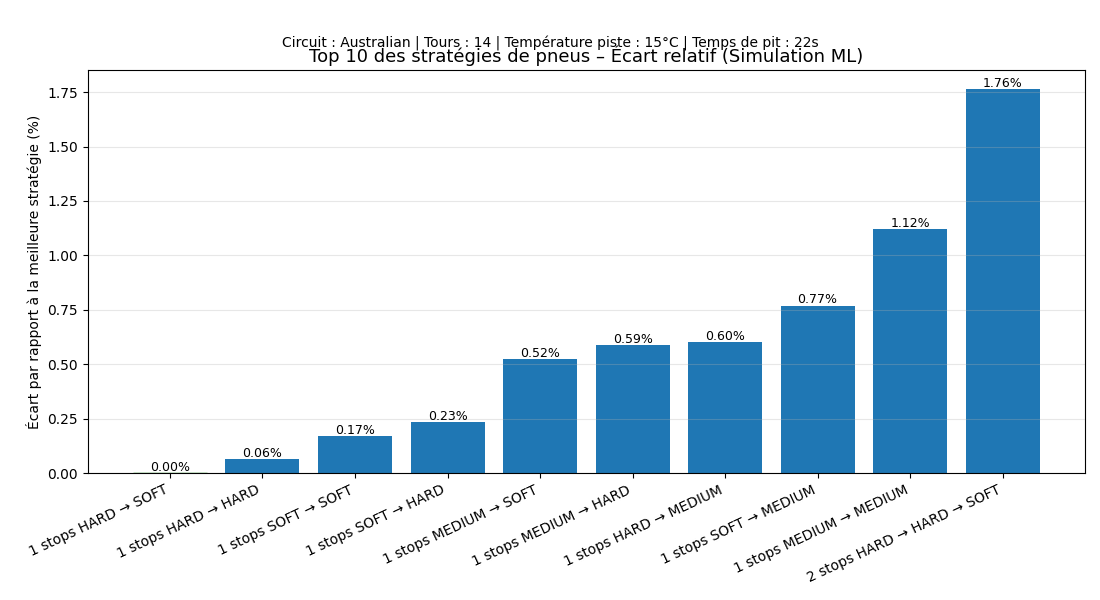
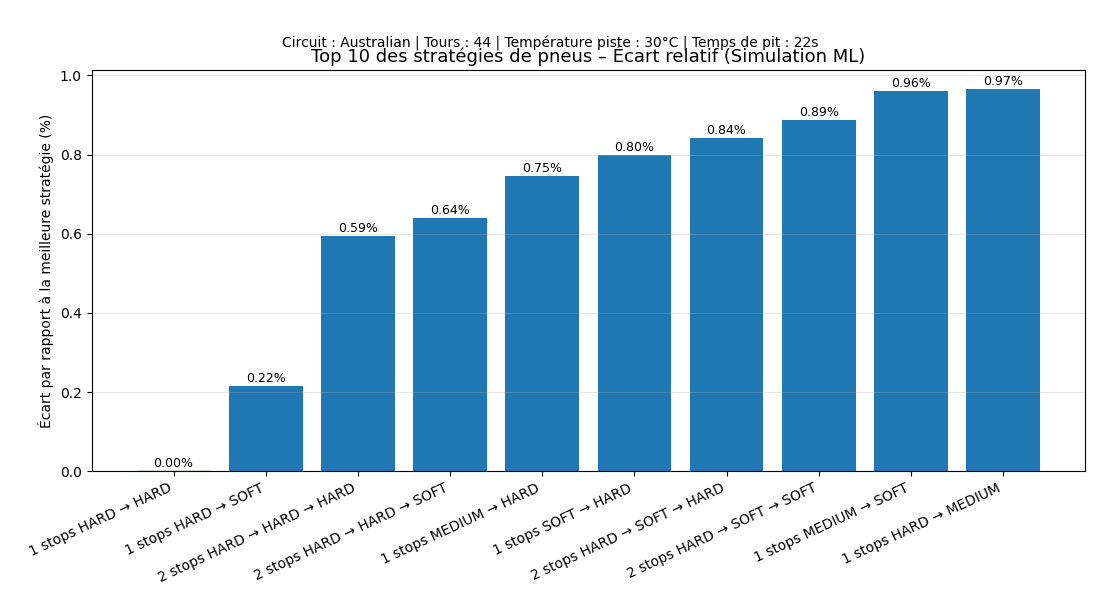
m'en vais me coucher mais c'est cool bien avancé

diff --git a/src/visualization.py b/src/visualization.py
@@ -463,7 +463,7 @@ COMPOUND_COLORS = {
     "HARD": "black",
 }
 
-def plot_raw_vs_model_degradation(
+def plot_degradation_panels(
     df,
     model,
     feature_template,
@@ -471,65 +471,103 @@ def plot_raw_vs_model_degradation(
     le_circuit,
     circuit_name,
     track_temp=35,
-    lap_number=25,
-    save_path="outputs/raw_vs_model_degradation.png",
+    lap_number=14,
+    max_tyre_life=None,
+    save_path="outputs/degradation_panels.png",
 ):
     """
-    Affiche les données brutes (points) + la courbe du modèle par-dessus.
-    - df : dataframe complet (lap data)
-    - model : modèle ML (RandomForest idéalement)
-    - feature_template : X_train.mean() (Series)
-    - feature_names : X_train.columns
-    - le_circuit : LabelEncoder des circuits
-    - circuit_name : nom du circuit (ex: 'Australian')
-    - track_temp : température fixée pour la courbe du modèle
-    - lap_number : tour "référence" pour la charge carburant
+    3 sous-graphes (SOFT/MEDIUM/HARD) :
+      - nuage de points gris = données brutes
+      - ligne pleine = moyenne des données par TyreLife
+      - ligne pointillée = modèle ML
+
+    C'est beaucoup plus lisible que tout empilé dans un seul graphe.
     """
 
-    # On filtre sur le circuit voulu
-    df_circ = df[df["Circuit"] == circuit_name].copy()
-    if df_circ.empty:
-        print(f"Aucune donnée pour le circuit '{circuit_name}'")
+    lap_col = "LapTime_Sec"
+
+    # 1) Filtrer sur le circuit
+    if "Circuit" not in df.columns:
+        print("❌ Colonne 'Circuit' absente.")
+        print("Colonnes :", list(df.columns))
         return
 
-    # Optionnel : filtrage doux sur la température
-    if "TrackTemp" in df_circ.columns:
-        df_circ = df_circ[np.isfinite(df_circ["TrackTemp"])]
+    df_circ = df[df["Circuit"] == circuit_name].copy()
+    if df_circ.empty:
+        print(f"❌ Aucune donnée pour le circuit '{circuit_name}'")
+        return
 
-    # Circuit encodé pour le modèle
+    # Convertir en secondes si besoin
+    lap_series = df_circ[lap_col]
+    if np.issubdtype(lap_series.dtype, np.dtype("timedelta64[ns]")):
+        df_circ["_LapTime_sec"] = lap_series.dt.total_seconds()
+    else:
+        df_circ["_LapTime_sec"] = lap_series.astype(float)
+
+    # Encodage du circuit
     circuit_id = le_circuit.transform([circuit_name])[0]
-
-    plt.figure(figsize=(10, 6))
 
     compounds = ["SOFT", "MEDIUM", "HARD"]
 
-    for comp in compounds:
-        df_comp = df_circ[df_circ["Compound"] == comp]
+    fig, axes = plt.subplots(1, 3, figsize=(15, 4.5), sharey=True)
+    axes = np.atleast_1d(axes)
+
+    for ax, comp in zip(axes, compounds):
+        if "Compound" not in df_circ.columns or "TyreLife" not in df_circ.columns:
+            print("❌ Colonnes 'Compound' ou 'TyreLife' manquantes.")
+            return
+
+        df_comp = df_circ[df_circ["Compound"] == comp].copy()
         if df_comp.empty:
+            ax.set_title(f"{comp} (aucune donnée)")
             continue
 
-        # --- 1) Points bruts ---
-        plt.scatter(
+        if max_tyre_life is not None:
+            df_comp = df_comp[df_comp["TyreLife"] <= max_tyre_life]
+
+        # Nuage de points brut (gris)
+        ax.scatter(
             df_comp["TyreLife"],
-            df_comp["LapTime_Sec"],
-            alpha=0.3,
-            label=f"{comp} (data)",
-            s=12,
+            df_comp["_LapTime_sec"],
+            alpha=0.15,
+            s=8,
+            color="grey",
+            label="Données brutes" if comp == "SOFT" else None,
+        )
+
+        # Moyenne + écart-type par TyreLife
+        stats = (
+            df_comp.groupby("TyreLife")["_LapTime_sec"]
+            .agg(["mean", "std", "count"])
+            .reset_index()
+        )
+        ages = stats["TyreLife"].values
+        mean_data = stats["mean"].values
+        std_data = stats["std"].values
+
+        ax.plot(
+            ages,
+            mean_data,
+            linewidth=2,
+            color=COMPOUND_COLORS.get(comp, None),
+            label="Moyenne données" if comp == "SOFT" else None,
+        )
+        ax.fill_between(
+            ages,
+            mean_data - std_data,
+            mean_data + std_data,
+            alpha=0.15,
             color=COMPOUND_COLORS.get(comp, None),
         )
 
-        # --- 2) Courbe du modèle ---
-        ages = np.arange(1, df_comp["TyreLife"].max() + 1)
-
+        # Courbe du modèle pour les mêmes ages
         preds = []
+        mapping = {"SOFT": 0, "MEDIUM": 1, "HARD": 2}
         for age in ages:
             row = feature_template.copy()
-
             if "TyreLife" in row.index:
                 row["TyreLife"] = age
             if "Compound_Encoded" in row.index:
-                # même mapping que dans ton strat.py
-                mapping = {"SOFT": 0, "MEDIUM": 1, "HARD": 2}
                 row["Compound_Encoded"] = mapping[comp]
             if "LapNumber" in row.index:
                 row["LapNumber"] = lap_number
@@ -541,22 +579,31 @@ def plot_raw_vs_model_degradation(
             X_row = pd.DataFrame([row])[list(feature_names)]
             preds.append(model.predict(X_row)[0])
 
-        plt.plot(
+        ax.plot(
             ages,
             preds,
+            linestyle="--",
             linewidth=2,
             color=COMPOUND_COLORS.get(comp, None),
-            label=f"{comp} (modèle)",
+            label="Modèle" if comp == "SOFT" else None,
         )
 
-    plt.xlabel("Âge du pneu (TyreLife, tours)")
-    plt.ylabel("Temps au tour (s)")
-    plt.title(
-        f"Dégradation des pneus – données brutes vs modèle\n"
-        f"Circuit : {circuit_name} | Temp piste : {track_temp}°C | Lap ref : {lap_number}"
+        ax.set_title(comp)
+        ax.set_xlabel("TyreLife (tours)")
+
+    axes[0].set_ylabel("Temps au tour (s)")
+
+    # Légende commune
+    handles, labels = axes[0].get_legend_handles_labels()
+    if handles:
+        fig.legend(handles, labels, loc="upper center", ncol=3)
+
+    fig.suptitle(
+        f"Dégradation des pneus – {circuit_name}\n"
+        f"Temp piste : {track_temp}°C | Lap ref : {lap_number}",
+        y=1.03,
+        fontsize=12,
     )
-    plt.legend()
-    plt.grid(alpha=0.3)
     plt.tight_layout()
-    plt.savefig(save_path)
-    print(f"Graphique raw vs modèle sauvegardé : {save_path}")
+    plt.savefig(save_path, bbox_inches="tight")
+    print(f"Graphique panneaux sauvegardé : {save_path}")

diff --git a/main.py b/main.py
@@ -1,7 +1,7 @@
 from src.data_loader import load_multiple_races, build_races_config_for_circuit
 from src.features import prepare_data, split_data
 from src.models import train_models, evaluate_models, feature_importance, train_all_models, evaluate_all_models
-from src.visualization import plot_model_performance, plot_raw_vs_model_degradation
+from src.visualization import plot_model_performance, plot_degradation_panels 
 from src.strat import generate_strategies, simulate_strategy
 import matplotlib.pyplot as plt
 def main():
@@ -25,8 +25,8 @@ def main():
 #    ]
 
     circuit_name = "Australian"
-    total_laps=14
-    track_temp=15
+    total_laps=44
+    track_temp=30
     pit_time=22
 
     races_config = build_races_config_for_circuit(
@@ -70,10 +70,8 @@ def main():
     print("\nEntraînement du modèle")
     rf_model, linear_model = train_models(X_train, y_train)
 
-        # Importance des features (Random Forest)
-    feature_names = X.columns.tolist()
-    feature_importance(rf_model, feature_names)
-
+    feature_template = X_train.mean(numeric_only=True)
+    feature_names = X_train.columns
     # Évaluation
     #print("\n Évaluation")
     #rf_preds, rf_rmse, rf_mae, lin_preds, lin_rmse, lin_mae = evaluate_models(
@@ -101,17 +99,18 @@ def main():
     # Si tu veux, tu peux récupérer le meilleur modèle pour la suite :
     best_model = models[best_name]
 
-    plot_raw_vs_model_degradation(
-        df,
-        best_model,              # ou best_model si tu veux
-        feature_template,
-        feature_names,
-        le_circuit,
-        circuit_name,
-        track_temp,
-        total_laps,          # par ex. milieu de ton relais de 14 tours
-        save_path="outputs/raw_vs_model_degradation.png",
-    )
+    plot_degradation_panels(
+    df,
+    rf_model,           # ou best_model si tu veux
+    feature_template,
+    feature_names,
+    le_circuit,
+    circuit_name,
+    track_temp,
+    total_laps,      # cohérent avec ta simu
+    max_tyre_life=30,   # optionnel : limite l’axe en X
+    save_path="outputs/degradation_panels.png",
+)
 
 
     print("\n--- Simulation des stratégies de pit stop ---")
